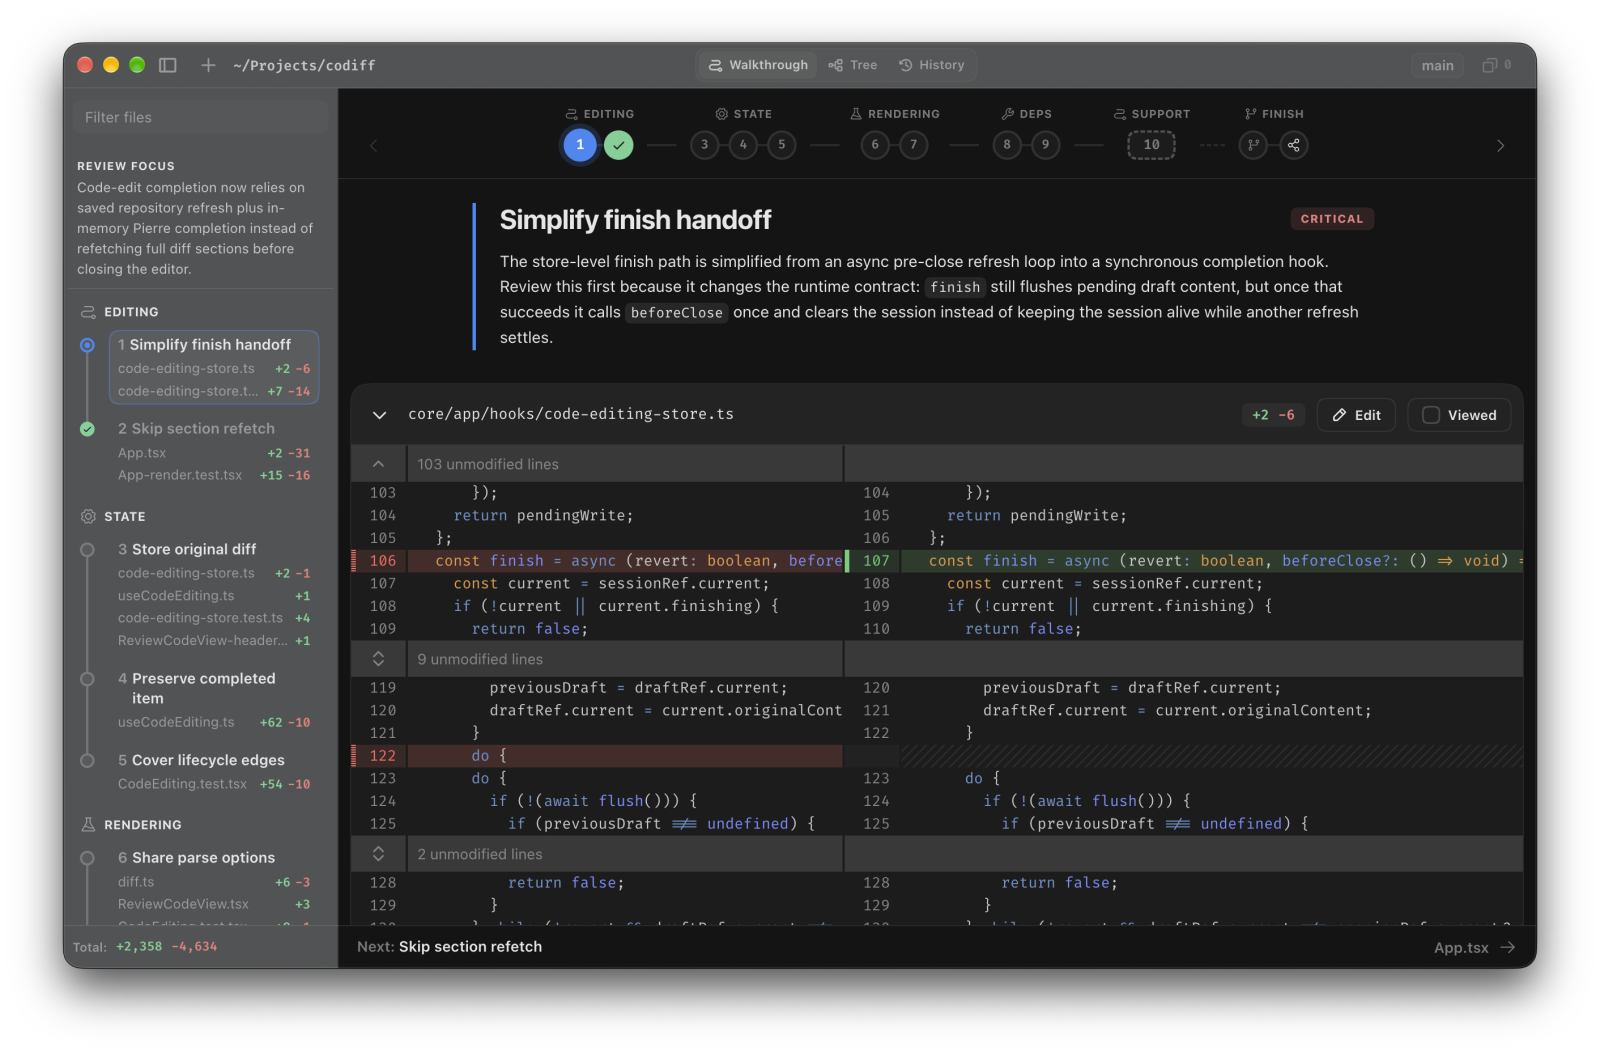
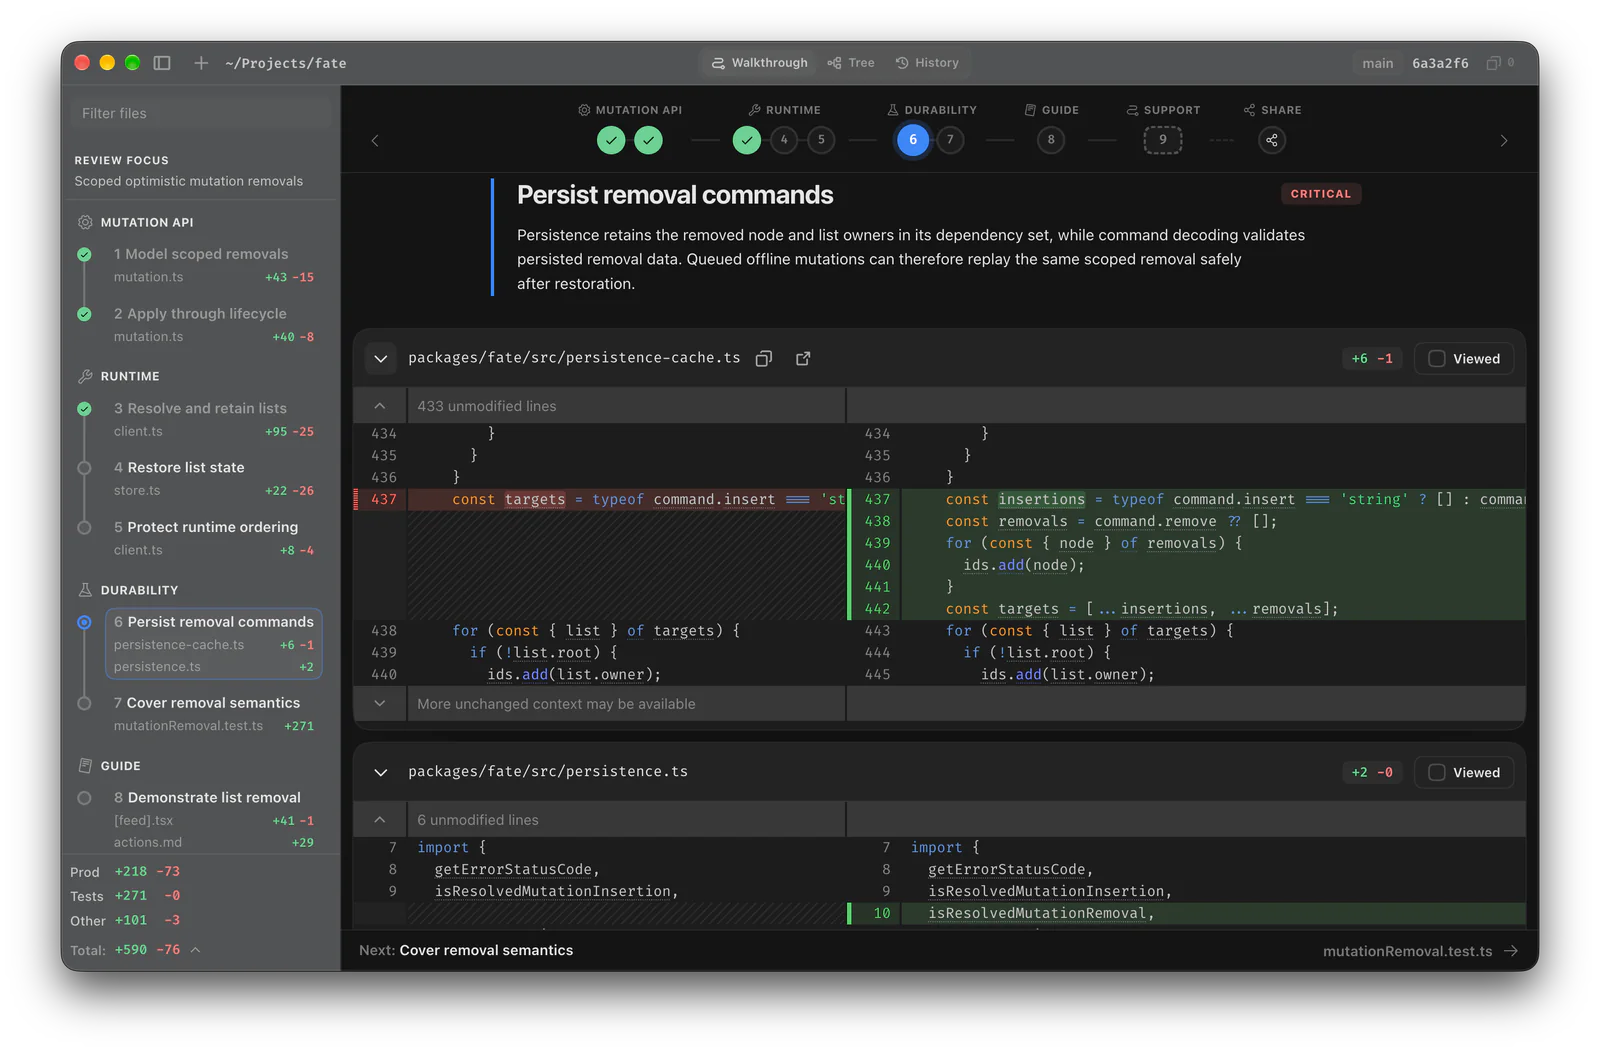
Update screenshot.

diff --git a/README.md b/README.md
@@ -1,9 +1,15 @@
 # Codiff
 
-Codiff is a beautiful, minimal, local diff viewer for reviewing Git changes and committing them.
+<p align="center">
+  <img alt="Codiff icon" src="./web/src/assets/icon.webp" width="76" height="76" />
+</p>
 
-<img width="48%" src="https://github.com/user-attachments/assets/9801587d-5879-461a-b375-9fbfa3c5f25d" />
-<img width="48%" src="https://github.com/user-attachments/assets/8b92902b-1112-4553-ba59-74e84a61ca7d" />
+<p align="center">
+  Codiff is a beautiful, minimal, local diff viewer for reviewing Git changes and committing them.
+</p>
+
+<img alt="Codiff walkthrough in light mode" width="48%" src="./web/src/assets/codiff-light.webp" />
+<img alt="Codiff walkthrough in dark mode" width="48%" src="./web/src/assets/codiff-dark.webp" />
 
 ## Why Codiff
 
